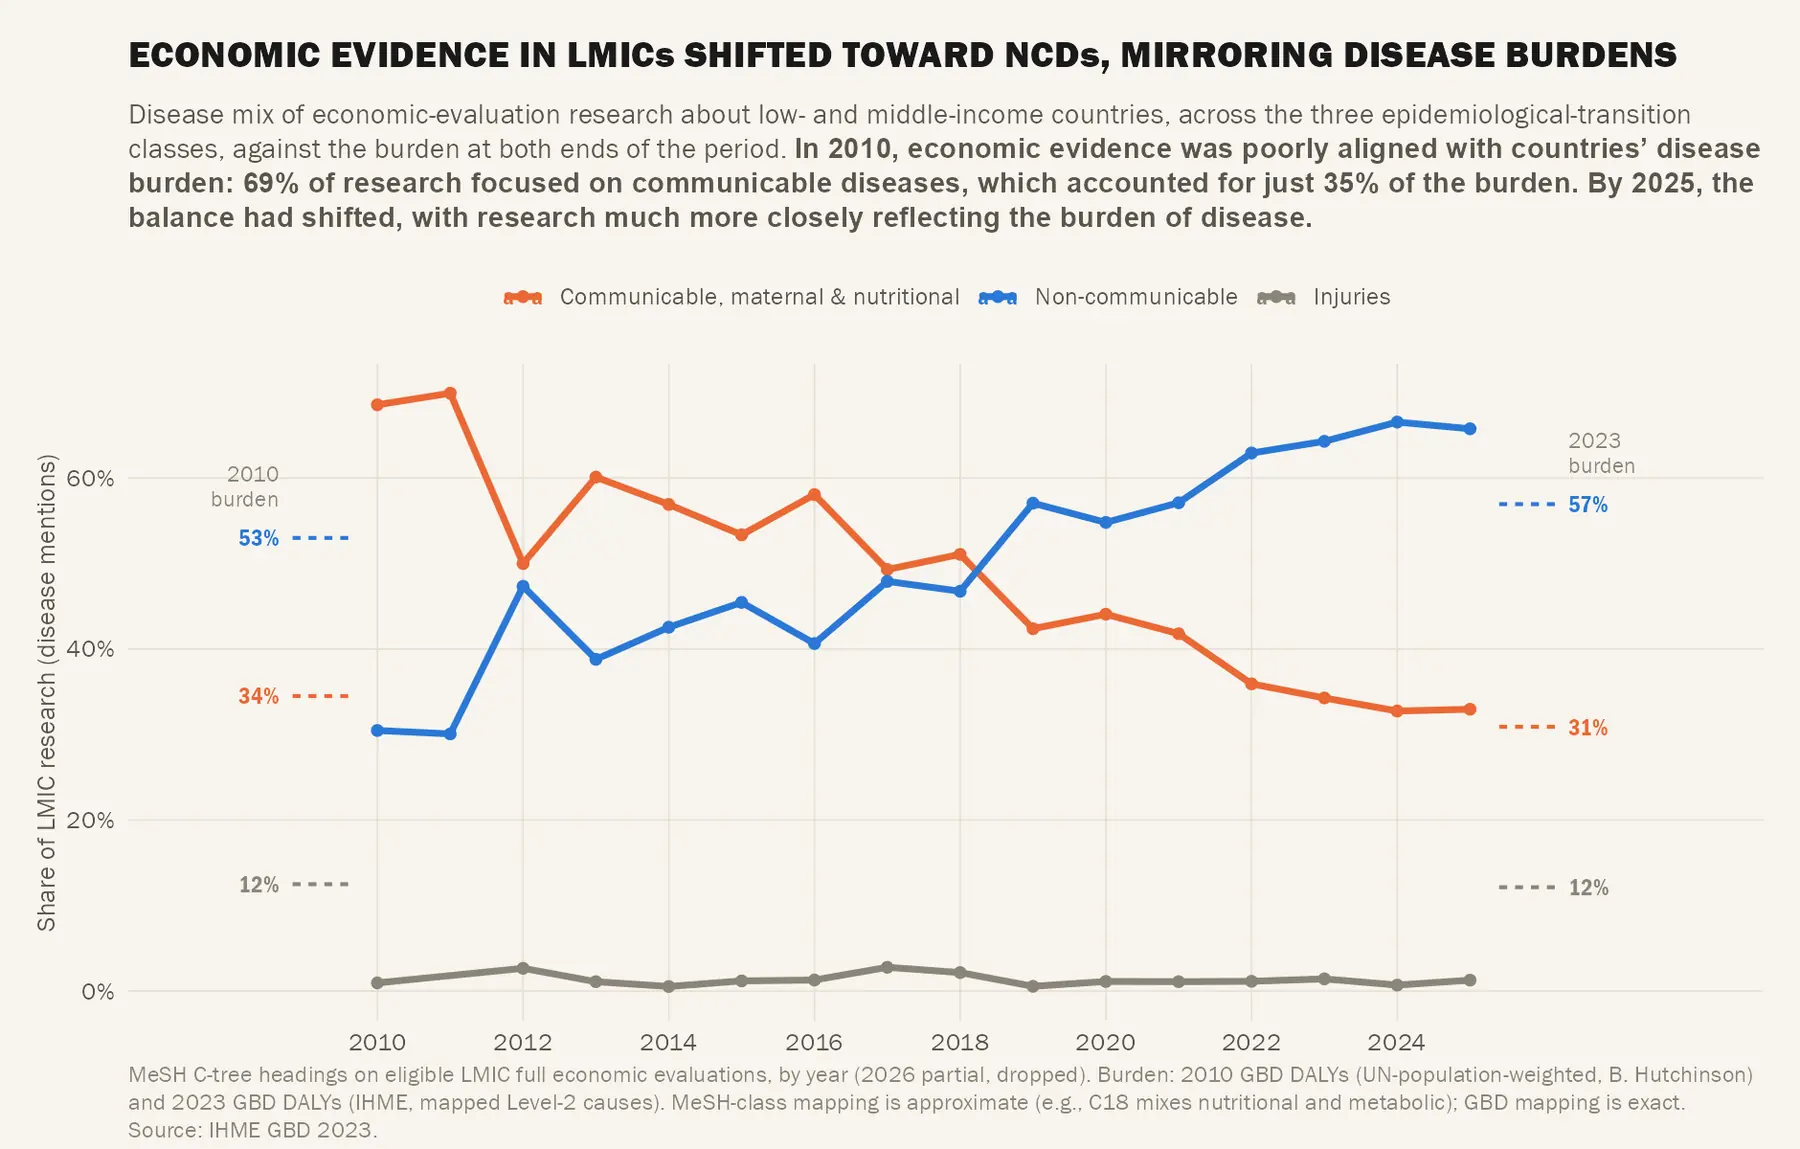
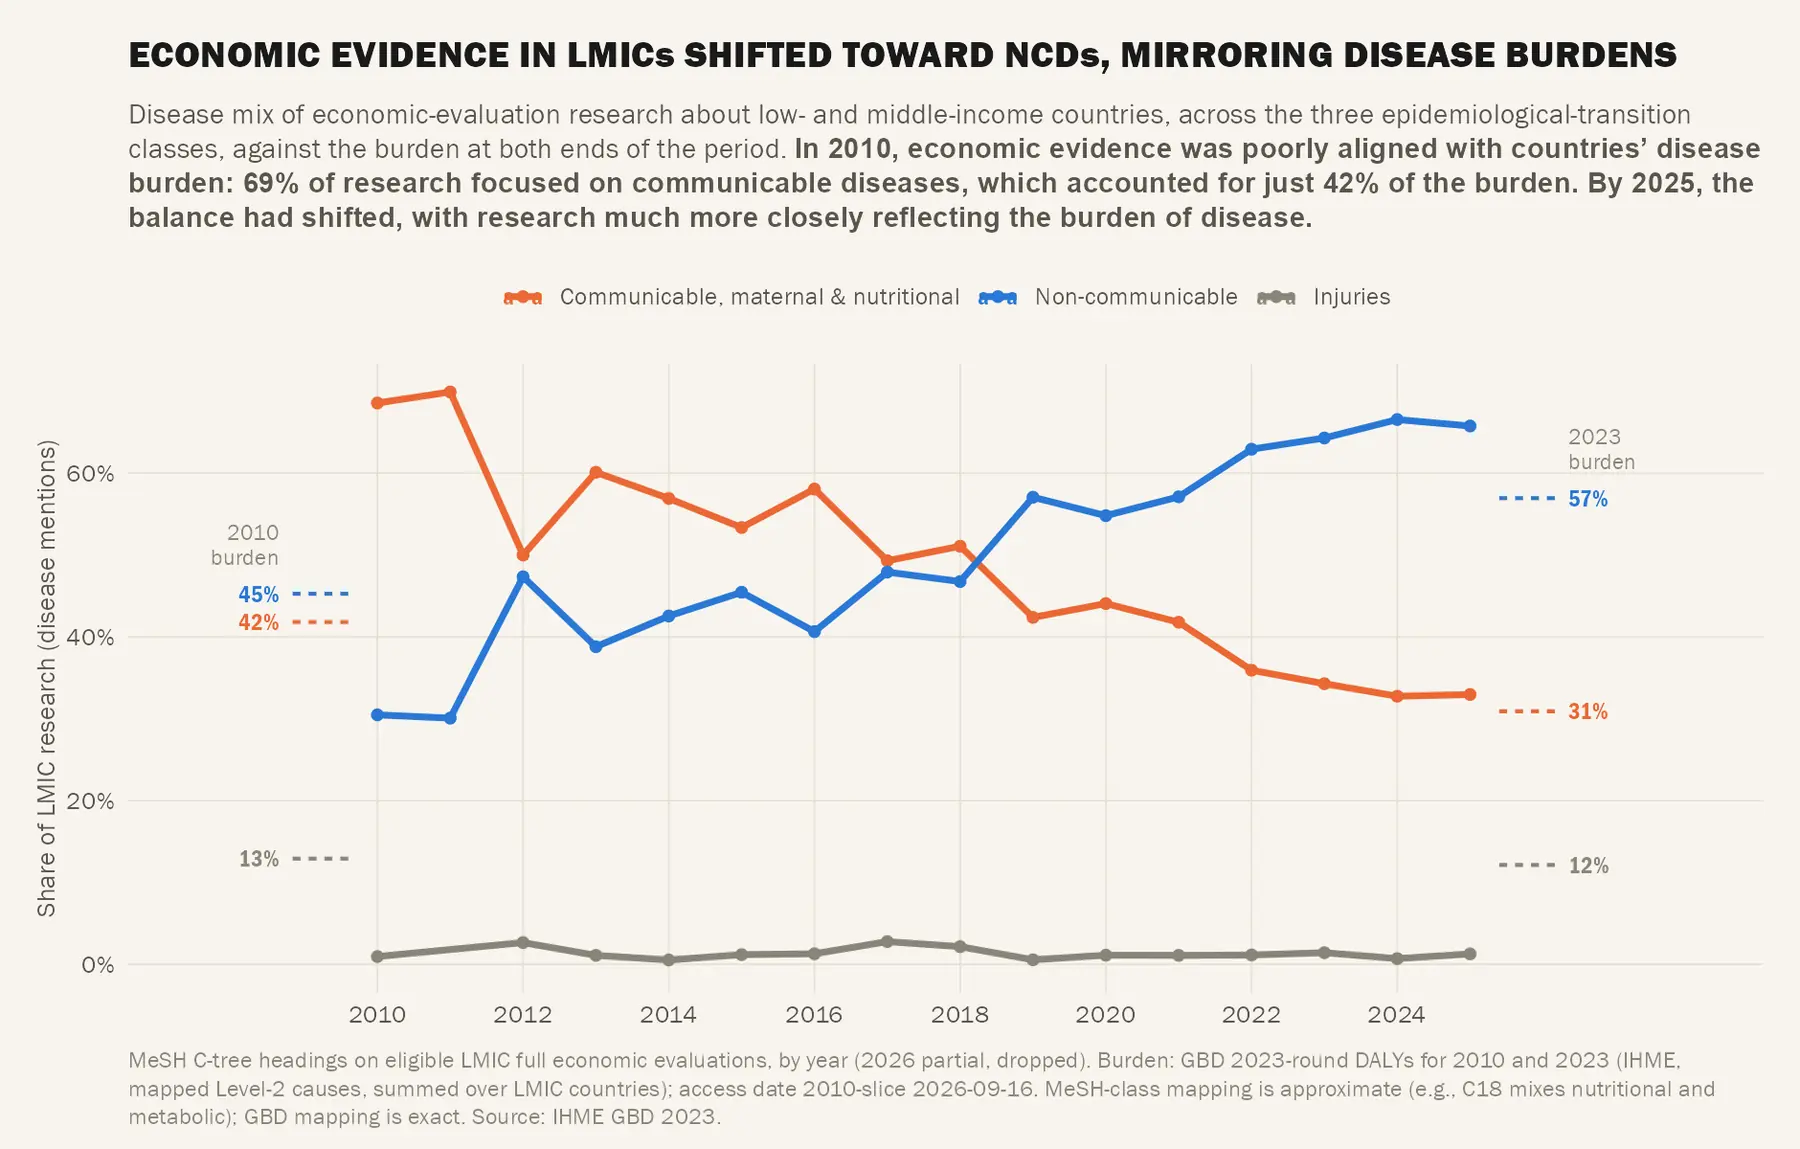
Transition figure: 2010 burden endpoint recomputed from GBD 2023-round export

diff --git a/docs/index.html b/docs/index.html
@@ -339,7 +339,7 @@
 <script src="https://cdn.jsdelivr.net/npm/plotly.js-dist-min@2.35.2/plotly.min.js" integrity="sha384-cCVCZkAjYNxaYKbM8lsArLznDF/SvMFr1jcZrvOpSTCa0W40ZAdLzHCEulnUa5i7" crossorigin="anonymous"></script>
 <script src="https://cdn.jsdelivr.net/npm/tom-select@2.3.1/dist/js/tom-select.complete.min.js" integrity="sha384-cnROoUgVILyibe3J0zhzWoJ9p2WmdnK7j/BOTSWqVDbC1pVw2d+i6Q/1ESKJKCYf" crossorigin="anonymous"></script>
 <script src="https://cdn.jsdelivr.net/npm/nouislider@15.8.1/dist/nouislider.min.js" integrity="sha384-EcVTHT5RdDTvzbTIbNOtaNxNALeJYDgmv5Crp3NBmcdrCPrDnqp6I1+ETJ/FCFHI" crossorigin="anonymous"></script>
-<script type="module" src="app.js?v=2026-09-15"></script>
+<script type="module" src="app.js?v=2026-09-16"></script>
 
 </body>
 </html>

diff --git a/docs/app.js b/docs/app.js
@@ -1,7 +1,7 @@
-// Cache-busting build token. Locally the literal "2026-09-15" is a harmless
+// Cache-busting build token. Locally the literal "2026-09-16" is a harmless
 // query string; at publish time webapp/publish-stamp.mjs rewrites every
 // occurrence in index.html and app.js to the bundle build value.
-const BUILD = "2026-09-15";
+const BUILD = "2026-09-16";
 
 const CODED_COLS = ["econ_eval_type", "design_basis", "model_label", "qaly_label",
   "oa_label", "geo_scope", "era", "topic_domain"];
